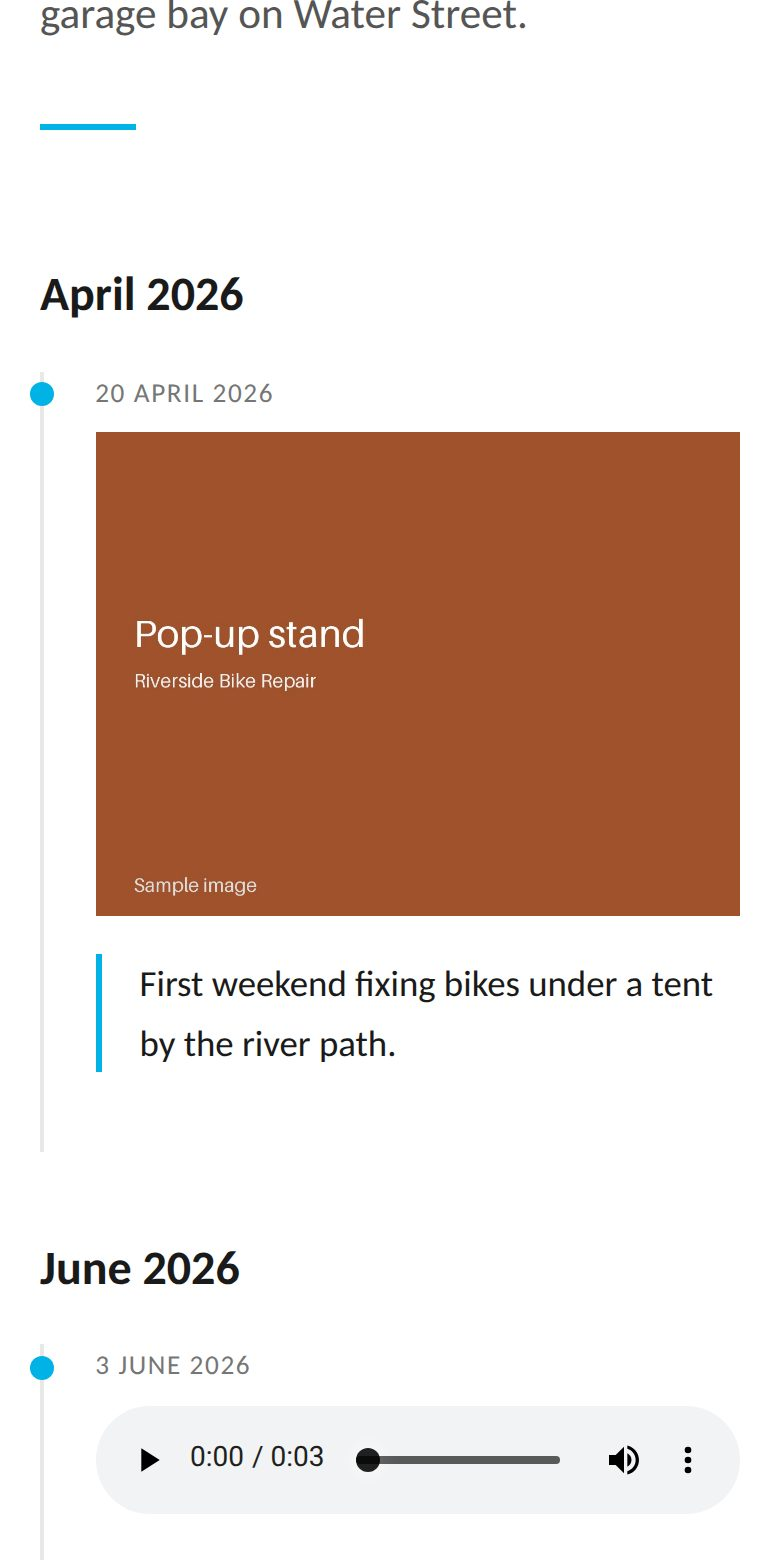
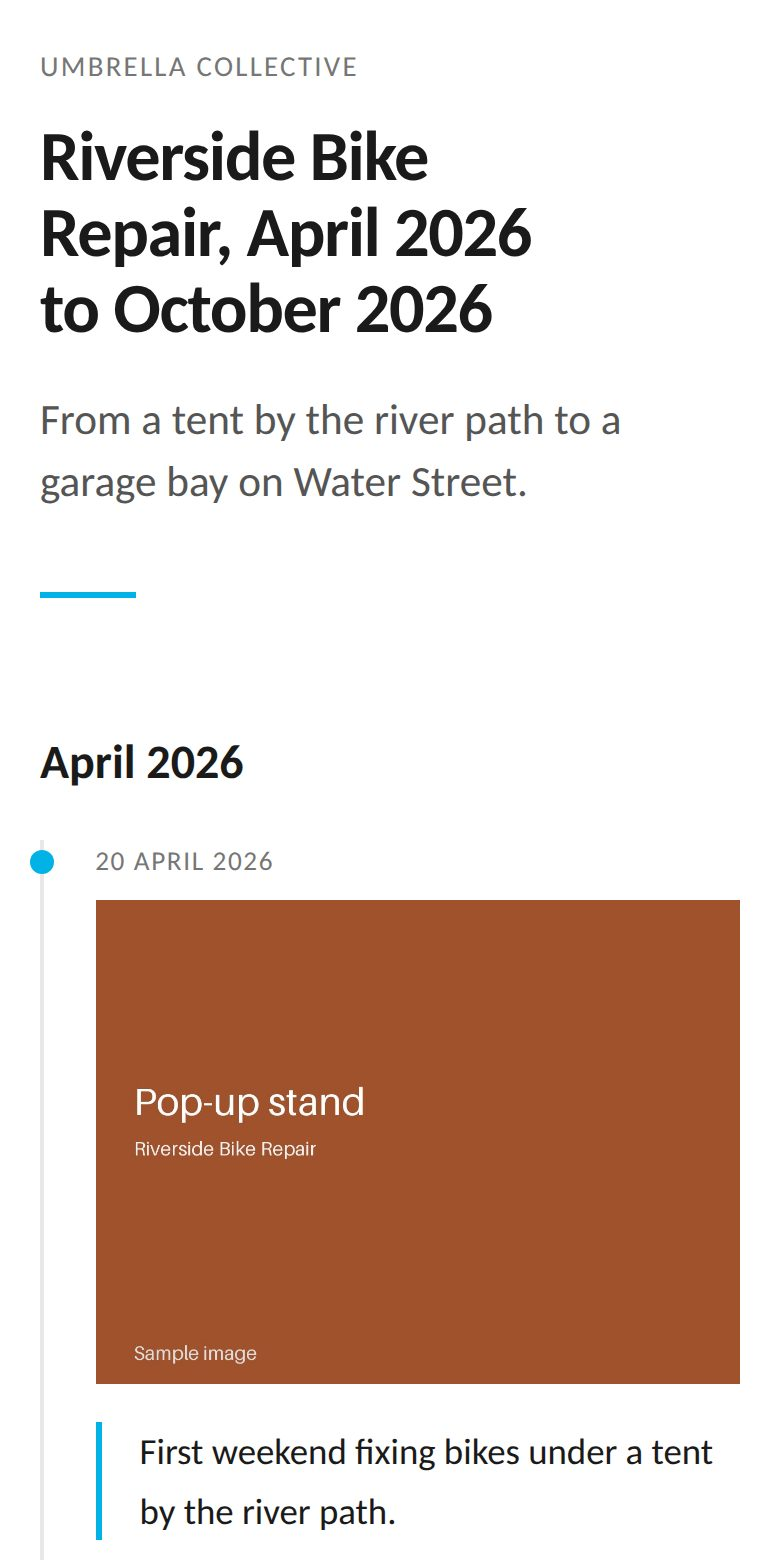
Story Kit page: ways-in line size, sample links underlined, timeline screenshot shows the title
Claude-Session: https://claude.ai/code/session_01D32DL57gAuiudw3L6P9ftW

diff --git a/website/templates/storykit.html b/website/templates/storykit.html
@@ -13,12 +13,12 @@
   .sk-hero h1 { font-size: clamp(2.4rem, 7vw, 3.6rem); line-height: 1.05; margin: 0 0 1rem; }
   .sk-hero p { font-size: clamp(1.15rem, 3vw, 1.4rem); line-height: 1.5; color: var(--text-secondary); max-width: 40rem; margin: 0 0 1.6rem; }
   .sk-actions { display: flex; flex-wrap: wrap; gap: .75rem; }
-  .sk-ways { color: var(--text-muted); font-size: .95rem; margin-top: 1.2rem; }
+  .sk .sk-ways { color: var(--text-muted); font-size: .95rem; margin: 1.2rem 0 0; }
   .sk-steps { list-style: none; padding: 0; margin: 0; display: grid; grid-template-columns: repeat(3, 1fr); gap: 2rem 1.5rem; }
   .sk-steps li { margin: 0; }
   .sk-steps img { width: 100%; height: auto; display: block; border: 1px solid #e4e4e0; }
   .sk-steps p { margin: .7rem 0 0; font-size: 1rem; line-height: 1.45; }
-  .sk-steps a { font-size: .95rem; }
+  .sk-steps a { color: var(--brand-dark); text-decoration: underline; white-space: nowrap; }
   .sk h2 { font-size: 1.6rem; margin: 3rem 0 1.4rem; }
   .sk-updates { background: var(--bg-warm); padding: 2rem 1.25rem; margin: 3.5rem 0 3rem; }
   .sk-updates form { display: flex; flex-wrap: wrap; gap: .6rem; max-width: 30rem; }
